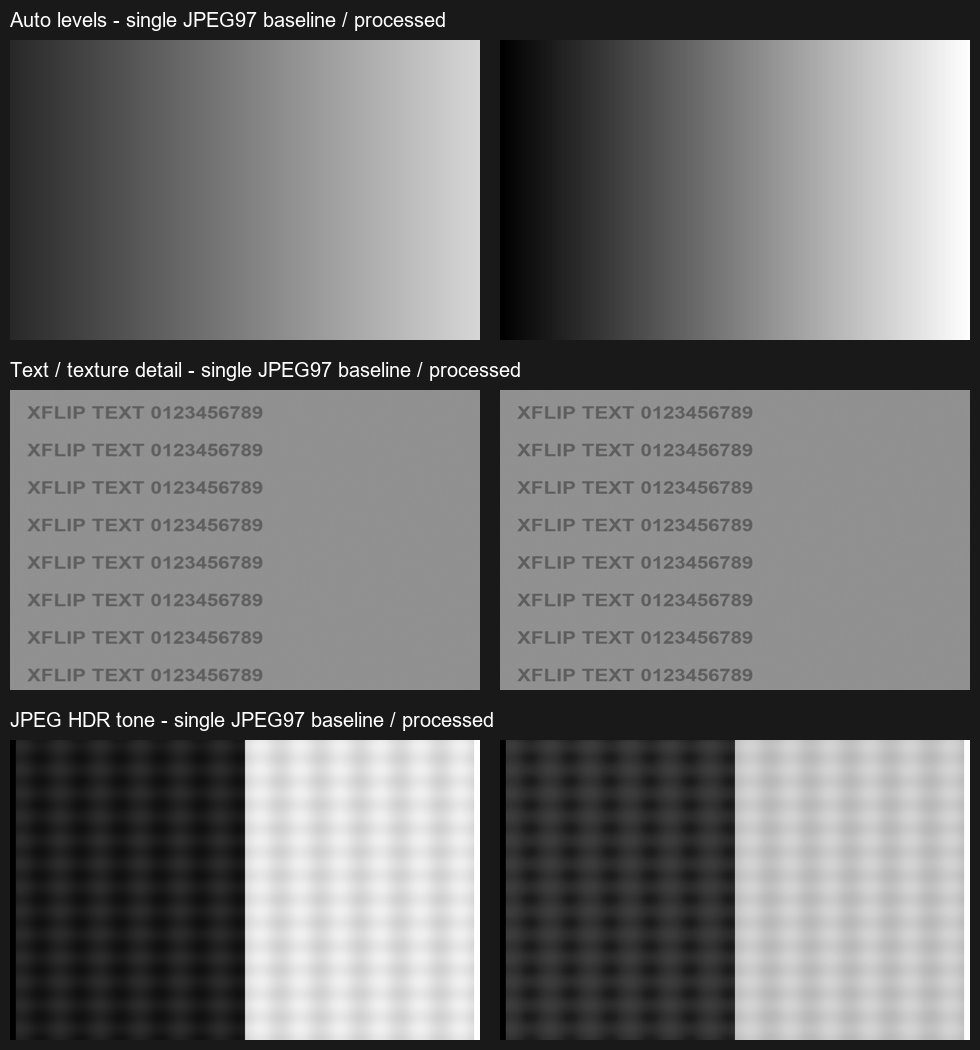
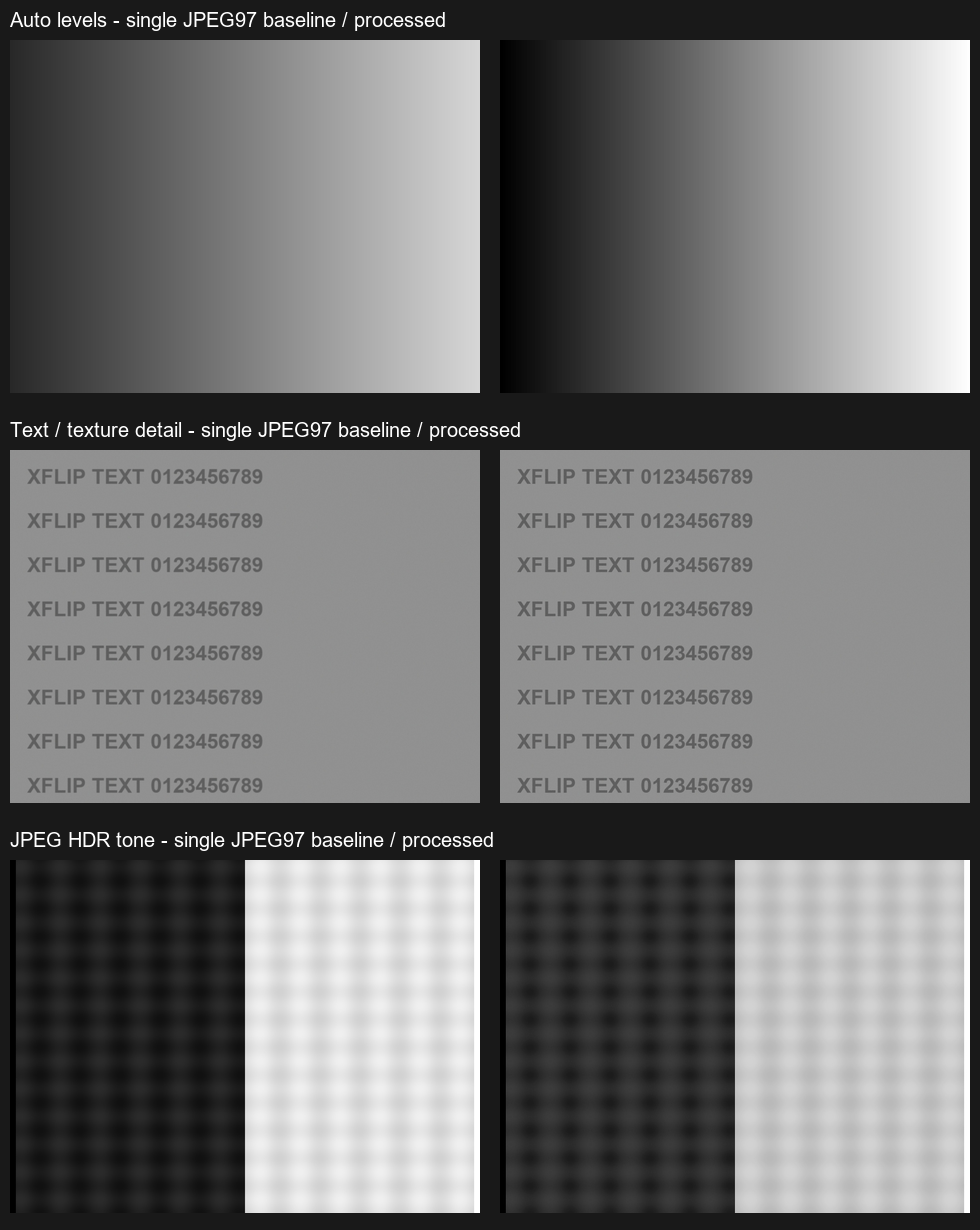
docs: publish photo tone CI delivery and remaining limits

diff --git a/README.md b/README.md
@@ -6,6 +6,8 @@
 
 0.4.1-dev 新增自动色阶、文字纹理增强和可选JPEG HDR色调，单张/三帧均支持，原图保留；已完成合盖实机功能检查与八组手机合成图算法检查。HDR是已有JPEG信息的色调映射，目前不是多曝光HDR采集。见 [新功能报告](docs/photo-tone-2026-10-15.md)。
 
+[0.4.1 交付说明](https://github.com/SturgeonIsSleepy/vivo-xflip-camera/releases/tag/v0.4.1-photo-tone-test)与 [CI APK 下载](https://github.com/SturgeonIsSleepy/vivo-xflip-camera/actions/runs/38744983176/artifacts/11978385837)已发布。手机已安装本地实测版；该签名 APK 直传及压缩/分卷上传因网络中断失败，Release 无安装包附件。CI 包来自同一源码，签名可能不同，不代表与手机安装文件逐字节一致。全尺寸处理耗时仍需优化。
+
 0.4.0-dev 新增“连续三张合成”：真实系统 JPEG 经 OpenCV 对齐、局部运动保护、降噪平均和轻度锐化，保留三张原图，另存全尺寸结果并可叠加已有文字水印。已完成 3 张 3072×4096 合盖实拍合成和六组手机算法检查。当前每张仍需系统确认，尚未实现单快门自动连拍、RAW HDR+ 或超分。见 [多帧实测与公平对照](docs/multiframe-2026-10-15.md)。
 
 0.3.1 用户实际重开暴露翻转与控件失联，现已在 0.3.2-dev 修复连接恢复及旧任务栈，并增加工作进程监护与 Surface 重建。最终包完成三次强制停止后正常重开，以及一次工作进程中断后的自动恢复。手机重启仍需初始化，不能把同进程演示当长期稳定验收。见 [启动恢复修复报告](docs/reconnect-2026-10-15.md)。

diff --git a/docs/photo-tone-2026-10-15.md b/docs/photo-tone-2026-10-15.md
@@ -37,4 +37,10 @@ JPEG HDR色调用双边对数亮度基础层压缩来平衡已记录的亮暗，
 
[1 lines of base64/hex data omitted]
 
+## 上传交付
+
+实测源码为 `605014ac7a7ca111ce66be0956e4ce41d903b15d`。[CI 38744983176](https://github.com/SturgeonIsSleepy/vivo-xflip-camera/actions/runs/38744983176)已成功，APK/Lint artifact `11978385837`已上传；测试 artifact `11978355875`下载后校验ZIP摘要，两套JUnit各8项、失败/错误/跳过均为0。
+
+[交付预发布页](https://github.com/SturgeonIsSleepy/vivo-xflip-camera/releases/tag/v0.4.1-photo-tone-test)已发布，tag核对指向上述实测源码。[CI APK 下载](https://github.com/SturgeonIsSleepy/vivo-xflip-camera/actions/runs/38744983176/artifacts/11978385837)可供其他agent取用。受当前上传连接超时/重置影响，本地签名实测APK、无损ZIP及小分卷均未完整上传，Release没有APK附件，未把不完整上传标为成功。CI包来自同一源码但签名可能不同；手机已经安装并验证本地包，无需为本次交接重装。全尺寸处理耗时仍需优化。
+
 参考：[OpenCV CLAHE](https://docs.opencv.org/4.12.0/d6/db6/classcv_1_1CLAHE.html)、[Durand/Dorsey 基础层与细节层思路](https://people.csail.mit.edu/fredo/PUBLI/Siggraph2002/)。使用已有OpenCV双边滤波和自主色调代码，没有复制论文项目源码或Google专有算法。

diff --git a/DEVELOPMENT_LOG.md b/DEVELOPMENT_LOG.md
@@ -341,3 +341,4 @@
 - 合盖实际通过单张和三帧加全部新处理的保存、原图保留、水印、设置和服务退出检查。实拍私有证据只留本地；公开仅功能通过结论，不上传私人照片的哈希、文件名、EXIF等派生标识。机器收据同步去掉上版real_photos数组，保留合成测试与软件APK校验。未重写历史。
 - 首次包含实拍派生字段的上传命令在执行前被自动审批拒绝，原因是未获明确授权公开私人照片的哈希和元数据；改为移除这些字段的安全替代，未绕过审批。报告docs/photo-tone-2026-10-15.md和公开合成对照/JSON可复现，debug夹具及设备测试脚本一并交付。
 - 下一步代码agent研究真正多曝光输入和低内存HDR，优化全尺寸处理耗时并保留曲线一致性；检查agent复核颜色、直方图尾部、光晕、共享输出与取消。已有初始化、系统每张确认等限制仍在。
+- 收尾：源码605014ac7a7ca111ce66be0956e4ce41d903b15d已推送，CI38744983176成功；APK/Lint artifact11978385837和测试artifact11978355875已上传，后者下载校验摘要且各flavor JUnit为8/0/0/0。Release413861188已公开，tag v0.4.1-photo-tone-test核对指向该源码。手机本地签名实测包已安装，但45MB APK直传超时，17MB无损ZIP及小分卷亦连接重置；停止继续消耗用户额度重试，Release清除失败附件并明确提供同源码CI下载，不能称CI签名与手机文件相同。私有实拍仍不上传。本次仅补交付文档/合成对照比例，无运行时代码改动，不重复构建实测。
